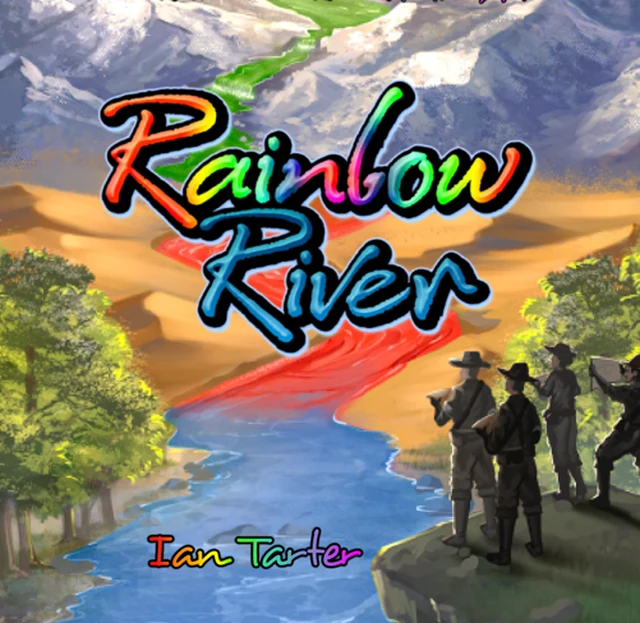
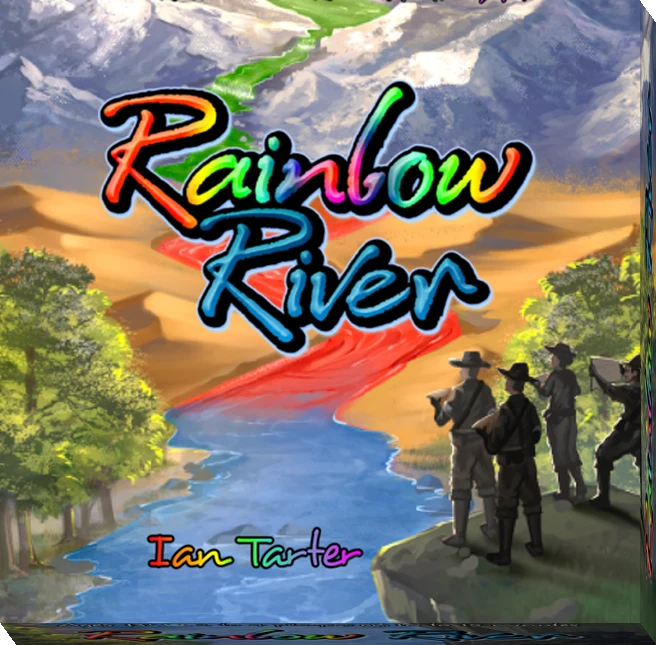
Projects: quotes inside the Daily Weather sheet, wallet over its top edge, grass round the Nemesis card, real box sides
Claude-Session: https://claude.ai/code/session_01X3LgmZH5haXE22BLdYX3sk

diff --git a/projects/index.html b/projects/index.html
@@ -22,7 +22,7 @@
 <link rel="preconnect" href="https://fonts.gstatic.com" crossorigin>
 <link rel="stylesheet" href="https://fonts.googleapis.com/css2?family=Bricolage+Grotesque:wght@300..800&family=Plus+Jakarta+Sans:ital,wght@0,300..800;1,300..800&family=Rampart+One&display=swap">
 <link rel="stylesheet" href="../assets/site.css?v=20261013u">
-<link rel="stylesheet" href="../assets/dir-i.css?v=20261110q">
+<link rel="stylesheet" href="../assets/dir-i.css?v=20261110t">
 <link rel="stylesheet" href="../assets/case-i.css?v=20261109a">
 <!-- the ground fetched first, so it is usually there for the first frame -->
 <link rel="preload" as="image" href="../assets/tex/moss-quiet-2k.webp" fetchpriority="high">
@@ -91,11 +91,10 @@
   </div></article>
   <h2 class="i-label">Published</h2>
   <section class="i-row g-grid">
-          <article class="card lay g-card g1 g-pitch"><div class="cf"><h3>The Daily Weather</h3><div class="c-art art-dw"><img class="wallet" src="../assets/img/dw-wallet.webp" alt="The Daily Weather in its wallet"></div><dl class="g-facts"><div><dt>Players</dt><dd>1</dd></div><div><dt>Time</dt><dd>10 min / day</dd></div><div><dt>Audience</dt><dd>Casual</dd></div><div><dt>Style</dt><dd>Morning puzzle</dd></div><div><dt>Status</dt><dd>Published</dd></div><div><dt>More</dt><dd><a href="../work/daily-weather/">Case study</a></dd></div></dl><p class="c-text">A pocket-sized 18-card game with 7 years of unique puzzles. You can buy it now from <a href="https://buttonshygames.com/">Button Shy</a> for $15.</p><blockquote class="s-quote q-in"><p>“The Daily Weather is going to be a beloved addition to your collection.”</p><cite><a href="https://whatsericplaying.com/2026/02/09/the-daily-weather/">What’s Eric Playing?</a></cite></blockquote><blockquote class="s-quote q-in"><p>“If you’re a fan of spatial puzzles, this one is a must-have in my opinion.”</p><cite><a href="https://yogibearanddelaware.com/2026/01/25/its-raining-men-a-preview-of-the-daily-weather/">Yogi Bear and Delaware</a></cite></blockquote></div></article>
-          <article class="card lay g-card g-pitch"><div class="cf"><h3>Magical Athlete: Second Wind</h3><div class="c-art art-ma"><img class="racer" src="../assets/img/nemesis.webp?v=2" alt="The Nemesis racer card: a curly-haired figure in a robe swinging a sword. Its power reads: When other racers roll for their main move, I can roll too. If I roll the same, I move that amount." width="552" height="772"></div><dl class="g-facts"><div><dt>Players</dt><dd>2–6</dd></div><div><dt>Time</dt><dd>30 min</dd></div><div><dt>Audience</dt><dd>Family</dd></div><div><dt>Style</dt><dd>Silly racing</dd></div><div><dt>Status</dt><dd>Published</dd></div><div><dt>More</dt><dd><a href="https://cmyk.games/secondwind">Announcement</a></dd></div></dl><p class="c-text">Magical Athlete: Second Wind is a standalone (or combine-able!) expansion to Magical Athlete. Recruit a team of absurd racers—Diva, Hog Knight, Stepdad—then just roll your die and move that many spaces. Except each racer has a deeply unfair, game breaking power.</p><p class="c-text">For Second Wind, I designed the Nemesis racer.</p></div></article>
-          <article class="card lay g-card g-pitch g-rr"><div class="cf"><h3>Rainbow River</h3><div class="c-art art-rr"><img class="box" src="../assets/img/rainbow-river-box.webp" alt="The Rainbow River box: a painted river running red, green and blue from snowy mountains through a desert, with four explorers looking on from a cliff, and Ian Tarter's name under the title" width="640" height="623" loading="lazy"></div><dl class="g-facts"><div><dt>Players</dt><dd>2–4</dd></div><div><dt>Time</dt><dd>20 min</dd></div><div><dt>Audience</dt><dd>Family</dd></div><div><dt>Style</dt><dd>Casual abstract</dd></div><div><dt>Status</dt><dd>Self-Published</dd></div><div><dt>More</dt><dd><a href="https://boardgamegeek.com/boardgame/350782/rainbow-river">BGG link</a></dd></div></dl><p class="c-text">A family game where players compete for map pieces on an ever-shrinking board to build the best river.</p><p class="c-text">I funded it on Kickstarter and ran production from prototype to manufacturing.</p></div></article><div class="rr-scatter" aria-hidden="true"><div class="rr-tile lay"><img src="../assets/img/rainbow-river-tile-d.webp?v=2" alt="" width="320" height="320" loading="lazy"></div><div class="rr-tile lay"><img src="../assets/img/rainbow-river-tile-a.webp?v=2" alt="" width="320" height="320" loading="lazy"></div><div class="rr-tile lay"><img src="../assets/img/rainbow-river-tile-f.webp?v=2" alt="" width="320" height="320" loading="lazy"></div><div class="rr-tile lay"><img src="../assets/img/rainbow-river-tile-b.webp?v=2" alt="" width="320" height="320" loading="lazy"></div><div class="rr-tile lay"><img src="../assets/img/rainbow-river-tile-g.webp?v=2" alt="" width="320" height="320" loading="lazy"></div><div class="rr-tile lay"><img src="../assets/img/rainbow-river-tile-c.webp?v=2" alt="" width="320" height="320" loading="lazy"></div><div class="rr-tile lay"><img src="../assets/img/rainbow-river-tile-h.webp?v=2" alt="" width="320" height="320" loading="lazy"></div><div class="rr-tile lay"><img src="../assets/img/rainbow-river-tile-e.webp?v=2" alt="" width="320" height="320" loading="lazy"></div></div>
+          <article class="card lay g-card g1 g-pitch"><div class="cf"><h3>The Daily Weather</h3><div class="c-art art-dw"><img class="wallet" src="../assets/img/dw-wallet.webp" alt="The Daily Weather in its wallet"></div><dl class="g-facts"><div><dt>Players</dt><dd>1</dd></div><div><dt>Time</dt><dd>10 min / day</dd></div><div><dt>Audience</dt><dd>Casual</dd></div><div><dt>Style</dt><dd>Morning puzzle</dd></div><div><dt>Status</dt><dd>Published</dd></div><div><dt>More</dt><dd><a href="../work/daily-weather/">Case study</a></dd></div></dl><p class="c-text">A pocket-sized 18-card game with 7 years of unique puzzles. You can buy it now from <a href="https://buttonshygames.com/">Button Shy</a> for $15.</p><blockquote class="s-quote"><p>“The Daily Weather is going to be a beloved addition to your collection.”</p><cite><a href="https://whatsericplaying.com/2026/02/09/the-daily-weather/">What’s Eric Playing?</a></cite></blockquote><blockquote class="s-quote"><p>“If you’re a fan of spatial puzzles, this one is a must-have in my opinion.”</p><cite><a href="https://yogibearanddelaware.com/2026/01/25/its-raining-men-a-preview-of-the-daily-weather/">Yogi Bear and Delaware</a></cite></blockquote></div></article>
+          <article class="card lay g-card g-pitch"><div class="cf"><h3>Magical Athlete: Second Wind</h3><div class="c-art art-ma"><div class="racer-lay lay"><img class="racer" src="../assets/img/nemesis.webp?v=2" alt="The Nemesis racer card: a curly-haired figure in a robe swinging a sword. Its power reads: When other racers roll for their main move, I can roll too. If I roll the same, I move that amount." width="552" height="772"></div></div><dl class="g-facts"><div><dt>Players</dt><dd>2–6</dd></div><div><dt>Time</dt><dd>30 min</dd></div><div><dt>Audience</dt><dd>Family</dd></div><div><dt>Style</dt><dd>Silly racing</dd></div><div><dt>Status</dt><dd>Published</dd></div><div><dt>More</dt><dd><a href="https://cmyk.games/secondwind">Announcement</a></dd></div></dl><p class="c-text">Magical Athlete: Second Wind is a standalone (or combine-able!) expansion to Magical Athlete. Recruit a team of absurd racers—Diva, Hog Knight, Stepdad—then just roll your die and move that many spaces. Except each racer has a deeply unfair, game breaking power.</p><p class="c-text">For Second Wind, I designed the Nemesis racer.</p></div></article>
+          <article class="card lay g-card g-pitch g-rr"><div class="cf"><h3>Rainbow River</h3><div class="c-art art-rr"><img class="box" src="../assets/img/rainbow-river-box.webp?v=2" alt="The Rainbow River box: a painted river running red, green and blue from snowy mountains through a desert, with four explorers looking on from a cliff, and Ian Tarter's name under the title" width="656" height="645" loading="lazy"></div><dl class="g-facts"><div><dt>Players</dt><dd>2–4</dd></div><div><dt>Time</dt><dd>20 min</dd></div><div><dt>Audience</dt><dd>Family</dd></div><div><dt>Style</dt><dd>Casual abstract</dd></div><div><dt>Status</dt><dd>Self-Published</dd></div><div><dt>More</dt><dd><a href="https://boardgamegeek.com/boardgame/350782/rainbow-river">BGG link</a></dd></div></dl><p class="c-text">A family game where players compete for map pieces on an ever-shrinking board to build the best river.</p><p class="c-text">I funded it on Kickstarter and ran production from prototype to manufacturing.</p></div></article><div class="rr-scatter" aria-hidden="true"><div class="rr-tile lay"><img src="../assets/img/rainbow-river-tile-d.webp?v=2" alt="" width="320" height="320" loading="lazy"></div><div class="rr-tile lay"><img src="../assets/img/rainbow-river-tile-a.webp?v=2" alt="" width="320" height="320" loading="lazy"></div><div class="rr-tile lay"><img src="../assets/img/rainbow-river-tile-f.webp?v=2" alt="" width="320" height="320" loading="lazy"></div><div class="rr-tile lay"><img src="../assets/img/rainbow-river-tile-b.webp?v=2" alt="" width="320" height="320" loading="lazy"></div><div class="rr-tile lay"><img src="../assets/img/rainbow-river-tile-g.webp?v=2" alt="" width="320" height="320" loading="lazy"></div><div class="rr-tile lay"><img src="../assets/img/rainbow-river-tile-c.webp?v=2" alt="" width="320" height="320" loading="lazy"></div><div class="rr-tile lay"><img src="../assets/img/rainbow-river-tile-h.webp?v=2" alt="" width="320" height="320" loading="lazy"></div><div class="rr-tile lay"><img src="../assets/img/rainbow-river-tile-e.webp?v=2" alt="" width="320" height="320" loading="lazy"></div></div>
         </section>
-  <article class="card lay g-note g-quotes"><div class="cf"><blockquote class="s-quote"><p>“The Daily Weather is going to be a beloved addition to your collection.”</p><cite><a href="https://whatsericplaying.com/2026/02/09/the-daily-weather/">What’s Eric Playing?</a></cite></blockquote><blockquote class="s-quote"><p>“If you’re a fan of spatial puzzles, this one is a must-have in my opinion.”</p><cite><a href="https://yogibearanddelaware.com/2026/01/25/its-raining-men-a-preview-of-the-daily-weather/">Yogi Bear and Delaware</a></cite></blockquote></div></article>
 
   <h2 class="i-label">In progress</h2>
   <article class="card lay g-note"><div class="cf"><p>Publishers: ask me about any of these. <a href="../#contact">Get in touch</a>.</p></div></article>

diff --git a/assets/dir-i.css b/assets/dir-i.css
@@ -1360,13 +1360,13 @@ li.mock::before, label.mock::before, .c-pdf.mock::before, .c-now.mock::before { 
 @media (min-width: 1000px) { .x-i .g-pitch .c-art.art-ma { width: 176px; right: -80px; top: -40px; } .art-ma img.racer { transform: rotate(-10deg); } }
 
 /* Rainbow River: the box lies ON the sheet in place of the title, like the Daily Weather wallet: a rigid square box seen from
-   above, bigger than its slot, hanging over the sheet's top and right edges, with a tall object's long shadow. Its tiles lie
+   above, bigger than its slot, hanging over the sheet's top and right edges, with a tall object's long shadow. Its right and bottom sides are the real side panels from the box template, drawn into the image. Its tiles lie
    scattered in the open moss beside the sheet (none on a phone), each a .lay piece so grass grows round it. */
 .x-i .g-rr.g-pitch { position: relative; } .x-i .g-rr.g-pitch .cf { position: static; }
 .x-i.x-i .g-rr.g-pitch h3 { position: absolute; width: 1px; height: 1px; overflow: hidden; clip-path: inset(50%); white-space: nowrap; }
 .x-i .g-rr.g-pitch .c-art.art-rr { aspect-ratio: 3 / 2; height: auto; margin: -6px 0 26px; background: none; overflow: visible; display: block; position: relative; z-index: 6; pointer-events: none; }
 .art-rr img.box { position: absolute; left: 50%; top: 50%; width: 82%; height: auto; max-width: none; transform: translate(-44%, -58%) rotate(5deg);
-  filter: drop-shadow(1px 1.4px 0 #1b2440) drop-shadow(1px 1.4px 0 #182038) drop-shadow(1px 1.4px 0 #141b30) drop-shadow(1px 1.4px 0 #111728) drop-shadow(1px 1.4px 0 #0e1320) drop-shadow(5px 8px 5px rgba(6,8,2,.55)) drop-shadow(20px 30px 24px rgba(6,8,2,.42)); }
+  filter: drop-shadow(5px 8px 5px rgba(6,8,2,.55)) drop-shadow(20px 30px 24px rgba(6,8,2,.42)); }
 .rr-scatter { position: relative; pointer-events: none; }
 .x-i .rr-scatter .rr-tile.lay { position: absolute; width: 84px; height: 84px; }
 .rr-scatter .rr-tile img { display: block; width: 100%; height: 100%; border-radius: 5px;
@@ -1388,12 +1388,23 @@ li.mock::before, label.mock::before, .c-pdf.mock::before, .c-now.mock::before { 
 @media (min-width: 1000px) { .x-i.games-i .art-ma img.racer { transform: rotate(-10deg); } }
 @media (min-width: 701px) { .x-i.games-i .art-rr img.box { transform: translate(-44%, -58%) rotate(-5deg); } }
 
-/* The Daily Weather's press quotes: on a phone they sit inside its sheet, under the description (Ian), and the separate
-   quotes card is hidden. On wider screens the sheet keeps its shared height and the quotes stay on their own card. */
-.x-i.games-i .g1.g-pitch .s-quote.q-in { display: none; }
-@media (max-width: 700px) {
-  .x-i.games-i .g1.g-pitch .s-quote.q-in { display: block; margin: 14px 0 0; }
-  .x-i.games-i .g1.g-pitch .c-text + .s-quote.q-in { margin-top: 18px; }
-  .x-i.games-i .g-grid + .g-quotes { display: none; }
-  .x-i.x-i.games-i .g-grid:has(.q-in) { grid-template-rows: auto; }
+/* The Daily Weather's two press quotes sit inside its sheet, under the description (Ian). So the sheet stays the shared
+   660px on wide screens, the wallet is not in a slot there: it hangs over the sheet's top edge, and the Published row
+   starts lower to give it room. On a phone the wallet keeps its slot and the sheet just grows. */
+.x-i.games-i .g1.g-pitch .s-quote { margin: 12px 0 0; }
+.x-i.games-i .g1.g-pitch .c-text + .s-quote { margin-top: 16px; }
+@media (max-width: 700px) { .x-i.x-i.games-i .g-grid:has(.g1) { grid-template-rows: auto; } }
+@media (min-width: 701px) {
+  .x-i.x-i.games-i .g-grid:has(.g1) { margin-top: 140px; }
+  .x-i.x-i.games-i .g1.g-pitch .art-dw { aspect-ratio: auto; height: 62px; margin: 0 0 22px; align-items: flex-end; }
 }
+
+/* The Nemesis card lies half on the sheet and half on the moss, so grass grows along the edges that are on the moss (Ian):
+   the turn is on a .lay wrapper so blades.js roots sprigs round the turned card; the left edge (on the sheet) gets none
+   and the bottom edge only gets them past the sheet's right edge. */
+.x-i.games-i .art-ma img.racer { transform: none; }
+.x-i.games-i .art-ma .racer-lay { rotate: -6deg; }
+.x-i.games-i .art-ma .racer-lay > .blade-strip[data-edge="left"] { display: none; }
+.x-i.games-i .art-ma .racer-lay > .blade-strip[data-edge="bottom"] { -webkit-mask-image: linear-gradient(to right, transparent calc(var(--cx) + var(--cw) * var(--on, .72)), #000 calc(var(--cx) + var(--cw) * var(--on, .72) + 10px)); mask-image: linear-gradient(to right, transparent calc(var(--cx) + var(--cw) * var(--on, .72)), #000 calc(var(--cx) + var(--cw) * var(--on, .72) + 10px)); }
+@media (min-width: 1000px) { .x-i.games-i .art-ma .racer-lay { rotate: -10deg; --on: .44; } .x-i.games-i .art-ma .racer-lay > .blade-strip { --on: .44; } }
+@media (max-width: 700px) { .x-i.games-i .art-ma .racer-lay > .blade-strip[data-edge="bottom"] { display: none; } }
